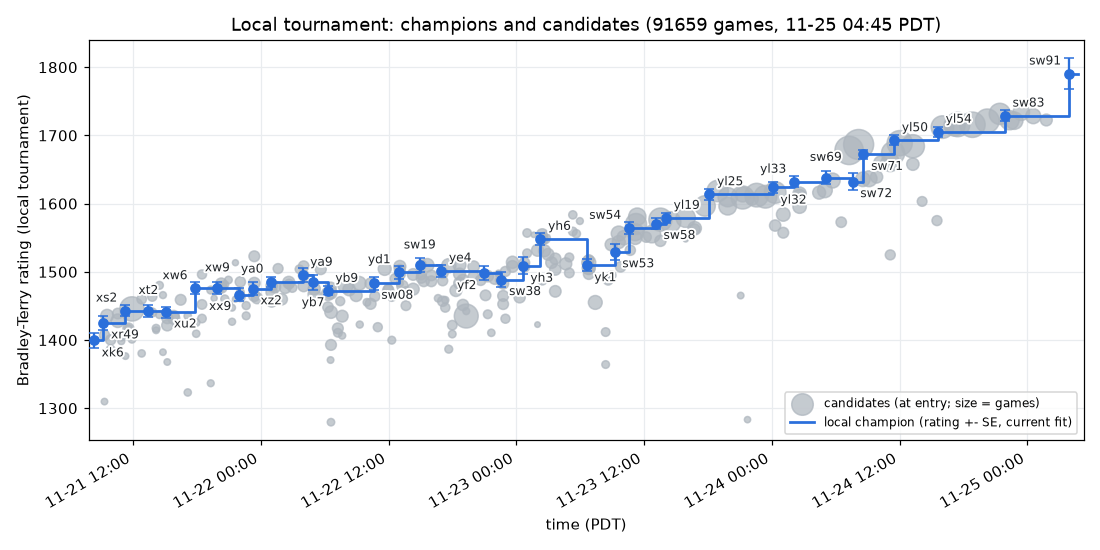
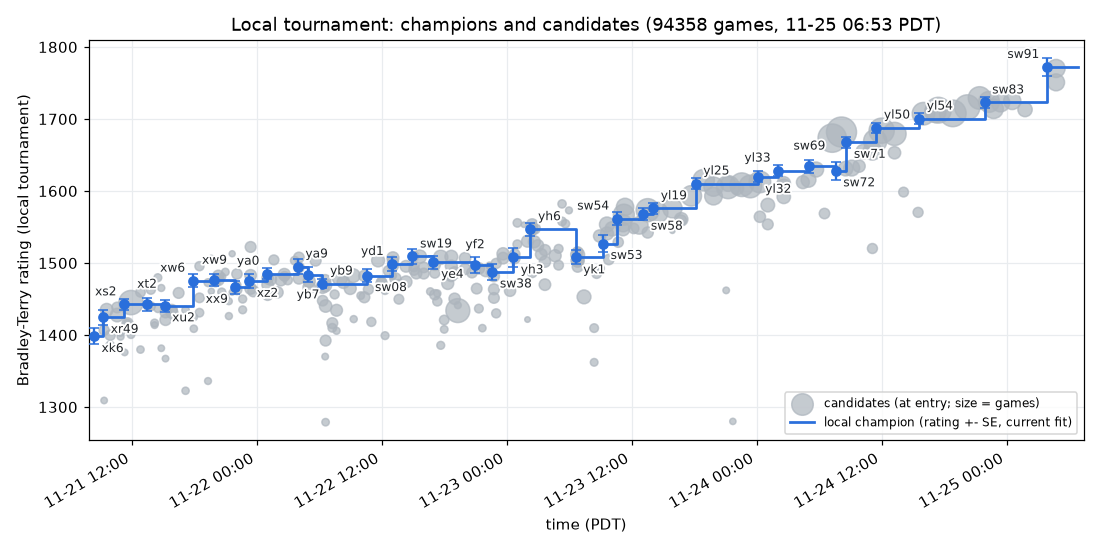
progress: local-elo chart 11-25 06:54 PDT (charts-refresh's 300 s timeout hit under load; redrawn by hand)
Claude-Session: https://claude.ai/code/session_01SzziPV5YmmvGU24CuZFoPc

diff --git a/progress/local-elo.md b/progress/local-elo.md
@@ -1,44 +1,44 @@
 # Local tournament Elo
 
-Bradley-Terry ratings of our own bots in the local tournament (`tools/tourney.py`), all 91659 games in one fit as of 2026-11-25 04:45 PDT, so every point is on the same scale; earlier champions are shown at their current rating. Regenerate with `tools/tourney.py chart`.
+Bradley-Terry ratings of our own bots in the local tournament (`tools/tourney.py`), all 94358 games in one fit as of 2026-11-25 06:53 PDT, so every point is on the same scale; earlier champions are shown at their current rating. Regenerate with `tools/tourney.py chart`.
 
 ![local elo](local-elo.png)
 
 | Champion from (PDT) | Bot | Change on base | Submission | Rating +- SE | Games |
 |---|---|---|---:|---:|---:|
-| 2026-11-21 08:20 | xk6 | starting champion (tournament began) |  | 1400 +- 11 | 1082 |
-| 2026-11-21 09:13 | xr49 | MAX_BABIES 14 on xk6 | #432 | 1425 +- 10 | 1209 |
+| 2026-11-21 08:20 | xk6 | starting champion (tournament began) |  | 1399 +- 11 | 1082 |
+| 2026-11-21 09:13 | xr49 | MAX_BABIES 14 on xk6 | #432 | 1424 +- 10 | 1209 |
 | 2026-11-21 11:12 | xs2 | KING_THREAT_D2 26 on xr49 | #433 | 1443 +- 8 | 1848 |
-| 2026-11-21 13:27 | xt2 | MAX_BABIES 15 on xs2 | #434 | 1443 +- 9 | 1689 |
-| 2026-11-21 15:07 | xu2 | KING_THREAT_D2 30 on xt2 | #435 | 1441 +- 8 | 2084 |
-| 2026-11-21 17:50 | xw6 | THROW_HOLD 10 on xu2 | #436 | 1476 +- 9 | 1747 |
+| 2026-11-21 13:27 | xt2 | MAX_BABIES 15 on xs2 | #434 | 1442 +- 9 | 1689 |
+| 2026-11-21 15:07 | xu2 | KING_THREAT_D2 30 on xt2 | #435 | 1440 +- 8 | 2084 |
+| 2026-11-21 17:50 | xw6 | THROW_HOLD 10 on xu2 | #436 | 1475 +- 9 | 1747 |
 | 2026-11-21 19:55 | xw9 | MAX_BABIES 16 on xw6 | #437 | 1476 +- 8 | 1914 |
-| 2026-11-21 21:55 | xx9 | GRAB_THREAT 15 on xw9 | #438 | 1467 +- 9 | 1666 |
-| 2026-11-21 23:15 | xz2 | LOW_FLOOR 200 on xx9 | #439 | 1475 +- 10 | 1373 |
-| 2026-11-22 00:55 | ya0 | KING_RESERVE 400 on xz2 | #440 | 1486 +- 8 | 2129 |
-| 2026-11-22 03:55 | ya9 | GATHER_CAT_DIST 32 on ya0 | #441 | 1496 +- 10 | 1176 |
+| 2026-11-21 21:55 | xx9 | GRAB_THREAT 15 on xw9 | #438 | 1466 +- 9 | 1666 |
+| 2026-11-21 23:15 | xz2 | LOW_FLOOR 200 on xx9 | #439 | 1474 +- 10 | 1373 |
+| 2026-11-22 00:55 | ya0 | KING_RESERVE 400 on xz2 | #440 | 1485 +- 8 | 2129 |
+| 2026-11-22 03:55 | ya9 | GATHER_CAT_DIST 32 on ya0 | #441 | 1495 +- 10 | 1176 |
 | 2026-11-22 04:55 | yb7 | CAT_DEFEND_R2 64 on ya9 | #442 | 1484 +- 11 | 1175 |
-| 2026-11-22 06:17 | yb9 | throw dodge: dodge any carrying enemy rat on yb7 | #443 | 1472 +- 7 | 2782 |
-| 2026-11-22 10:36 | sw08 | forward hold: FIGHT_POST 8 + WAR_GATHER 0 (big swing) on yb9 | #444 | 1483 +- 9 | 1424 |
+| 2026-11-22 06:17 | yb9 | throw dodge: dodge any carrying enemy rat on yb7 | #443 | 1471 +- 7 | 2782 |
+| 2026-11-22 10:36 | sw08 | forward hold: FIGHT_POST 8 + WAR_GATHER 0 (big swing) on yb9 | #444 | 1482 +- 9 | 1424 |
 | 2026-11-22 12:56 | yd1 | FIGHT_POST 12 on sw08 | #445 | 1499 +- 10 | 1252 |
-| 2026-11-22 14:56 | sw19 | FIGHT_POST 12 + cat endgame END_CAT 1600 END_CAT_COOP 1200 (big swing) on sw08 | #446 | 1510 +- 10 | 1188 |
-| 2026-11-22 16:57 | ye4 | END_CAT 1400 on sw19 | #447 | 1502 +- 9 | 1530 |
-| 2026-11-22 20:56 | yf2 | DEFEND_D2 225 on ye4 | #448 | 1498 +- 11 | 1035 |
-| 2026-11-22 22:36 | sw38 | RUSH_UNTIL 200 + END_CAT_COOP 1000 on yf2 | #449 | 1489 +- 11 | 986 |
-| 2026-11-23 00:36 | yh3 | INCOME_TRUST 50 on sw38 | #450 | 1509 +- 13 | 714 |
-| 2026-11-23 02:16 | yh6 | INCOME_TRUST 30 on sw38 | #451 | 1548 +- 9 | 1606 |
-| 2026-11-23 06:36 | yk1 | FIGHT_POST 10 on yh6 | #452 | 1510 +- 9 | 1378 |
-| 2026-11-23 09:14 | sw53 | RAID_SHARE 2 + FWD_TRAP (raiders + forward traps; sparring partner crowned) on yk1 | #453 | 1529 +- 11 | 944 |
-| 2026-11-23 10:34 | sw54 | MAX_BABIES_WAR 20 + RICH_BANK 600 + CORE_BABIES 20 + KING_RESERVE 300 (sw50's bank on bodies on the raider line; big swing) on sw53 | #454 | 1564 +- 9 | 1525 |
-| 2026-11-23 13:06 | sw58 | FINISH_K 8 + FINISH_FLOOR 100 (sw56's kill finishing ported to sw54; big swing) on sw54 | #470 | 1571 +- 8 | 1862 |
-| 2026-11-23 14:03 | yl19 | FINISH_FLOOR 100 alone (from 200; sw58's floor without its FINISH_K 8) on sw54 | #474 | 1579 +- 8 | 2055 |
-| 2026-11-23 18:08 | yl25 | RETREAT_HP 0 (from 40: wounded babies no longer walk back to our king; incremental) on yl19 | #475 | 1614 +- 8 | 2001 |
-| 2026-11-24 00:05 | yl32 | STANDOFF_EQ (the standoff holds only against a healthier enemy; an equal one is walked to and bitten first; incremental) on yl25 | #476 | 1624 +- 8 | 2035 |
-| 2026-11-24 02:03 | yl33 | PREY_WEAKEST (a hunter chases the weakest weaker enemy baby within dist2 20 - the lowest health then the nearest - instead of the nearest; incremental) on yl25 | #477 | 1632 +- 8 | 1882 |
-| 2026-11-24 05:04 | sw69 | LOW_FLOOR 50 (with fewer than LOW_BABIES 8 babies every spawn floor drops to 50 from 200 - usqualsbot's spend-down; on yl32 = yl25 + STANDOFF_EQ; swing) on yl32 | #478 | 1638 +- 9 | 1522 |
-| 2026-11-24 07:35 | sw72 | PREY_WEAKEST + PREY_TRAP (sw68's hunt rework on sw69: hunters chase the weakest weaker enemy baby; a rat a healthier enemy hunter watches traps it first - gate-free; swing) on sw69 | #479 | 1632 +- 13 | 768 |
-| 2026-11-24 08:36 | sw71 | CAT_YIELD_R2 20 + PREY_TRAP + LOW_FLOOR 50 (the brawl bundle on yl33 = yl25 + PREY_WEAKEST: at war a rat with an enemy baby within dist2 20 is not drawn to a cat at our king; a rat a healthier enemy hunter watches traps it first; spawns spend down to 50 under 8 babies; no STANDOFF_EQ; swing) on yl33 | #480 | 1672 +- 7 | 2710 |
-| 2026-11-24 11:29 | yl50 | LOW_FLOOR 20 (from 50; snapvar: under LOW_BABIES 8 babies the king spawns down to a 20 bank instead of 50; incremental) on sw71 | #481 | 1693 +- 7 | 2708 |
-| 2026-11-24 15:36 | yl54 | LOW_BABIES 12 (from 8; snapvar: the LOW_FLOOR 20 spend-down applies under 12 babies instead of 8; incremental) on yl50 | #482 | 1705 +- 7 | 2411 |
-| 2026-11-24 21:53 | sw83 | SENTRY 1 + SENTRY_R 1 + SENTRY_LOOK 3 (sw82 = yl54 + the mine sentry: at a mine no king of ours holds, with no enemy rat in view and nothing carried, a rat in the at-mine state walks to within Chebyshev 1 of the mine and holds, turning 90 degrees a round; sw83 adds the look: a rat on our half with a part load (10-29 raw), no pile in sight and no enemy in view turns 90 degrees a round for the 3 rounds after its last pickup before the trip home; swing) on sw82 | #483 | 1729 +- 9 | 1765 |
-| 2026-11-25 03:53 | sw91 | BAIL_BITE + BAIL_BITE_LEFT 1500 (sw91 = sw83 + the bite before a bail: a hostile turn that ends early for bytecodes (BC_BAIL before the actions, or GM_BAIL/BC_BAIL after the grab micro when it did not act) first bites the best enemy already in reach inside its cone, without turning or moving; swing) on sw83 | #484 | 1791 +- 23 | 245 |
+| 2026-11-22 14:56 | sw19 | FIGHT_POST 12 + cat endgame END_CAT 1600 END_CAT_COOP 1200 (big swing) on sw08 | #446 | 1509 +- 10 | 1188 |
+| 2026-11-22 16:57 | ye4 | END_CAT 1400 on sw19 | #447 | 1501 +- 9 | 1530 |
+| 2026-11-22 20:56 | yf2 | DEFEND_D2 225 on ye4 | #448 | 1497 +- 11 | 1035 |
+| 2026-11-22 22:36 | sw38 | RUSH_UNTIL 200 + END_CAT_COOP 1000 on yf2 | #449 | 1487 +- 11 | 986 |
+| 2026-11-23 00:36 | yh3 | INCOME_TRUST 50 on sw38 | #450 | 1508 +- 13 | 714 |
+| 2026-11-23 02:16 | yh6 | INCOME_TRUST 30 on sw38 | #451 | 1547 +- 9 | 1606 |
+| 2026-11-23 06:36 | yk1 | FIGHT_POST 10 on yh6 | #452 | 1508 +- 9 | 1378 |
+| 2026-11-23 09:14 | sw53 | RAID_SHARE 2 + FWD_TRAP (raiders + forward traps; sparring partner crowned) on yk1 | #453 | 1527 +- 11 | 944 |
+| 2026-11-23 10:34 | sw54 | MAX_BABIES_WAR 20 + RICH_BANK 600 + CORE_BABIES 20 + KING_RESERVE 300 (sw50's bank on bodies on the raider line; big swing) on sw53 | #454 | 1562 +- 9 | 1525 |
+| 2026-11-23 13:06 | sw58 | FINISH_K 8 + FINISH_FLOOR 100 (sw56's kill finishing ported to sw54; big swing) on sw54 | #470 | 1568 +- 8 | 1862 |
+| 2026-11-23 14:03 | yl19 | FINISH_FLOOR 100 alone (from 200; sw58's floor without its FINISH_K 8) on sw54 | #474 | 1576 +- 8 | 2055 |
+| 2026-11-23 18:08 | yl25 | RETREAT_HP 0 (from 40: wounded babies no longer walk back to our king; incremental) on yl19 | #475 | 1610 +- 8 | 2001 |
+| 2026-11-24 00:05 | yl32 | STANDOFF_EQ (the standoff holds only against a healthier enemy; an equal one is walked to and bitten first; incremental) on yl25 | #476 | 1620 +- 8 | 2035 |
+| 2026-11-24 02:03 | yl33 | PREY_WEAKEST (a hunter chases the weakest weaker enemy baby within dist2 20 - the lowest health then the nearest - instead of the nearest; incremental) on yl25 | #477 | 1628 +- 8 | 1882 |
+| 2026-11-24 05:04 | sw69 | LOW_FLOOR 50 (with fewer than LOW_BABIES 8 babies every spawn floor drops to 50 from 200 - usqualsbot's spend-down; on yl32 = yl25 + STANDOFF_EQ; swing) on yl32 | #478 | 1634 +- 9 | 1522 |
+| 2026-11-24 07:35 | sw72 | PREY_WEAKEST + PREY_TRAP (sw68's hunt rework on sw69: hunters chase the weakest weaker enemy baby; a rat a healthier enemy hunter watches traps it first - gate-free; swing) on sw69 | #479 | 1628 +- 13 | 768 |
+| 2026-11-24 08:36 | sw71 | CAT_YIELD_R2 20 + PREY_TRAP + LOW_FLOOR 50 (the brawl bundle on yl33 = yl25 + PREY_WEAKEST: at war a rat with an enemy baby within dist2 20 is not drawn to a cat at our king; a rat a healthier enemy hunter watches traps it first; spawns spend down to 50 under 8 babies; no STANDOFF_EQ; swing) on yl33 | #480 | 1668 +- 7 | 2710 |
+| 2026-11-24 11:29 | yl50 | LOW_FLOOR 20 (from 50; snapvar: under LOW_BABIES 8 babies the king spawns down to a 20 bank instead of 50; incremental) on sw71 | #481 | 1688 +- 7 | 2708 |
+| 2026-11-24 15:36 | yl54 | LOW_BABIES 12 (from 8; snapvar: the LOW_FLOOR 20 spend-down applies under 12 babies instead of 8; incremental) on yl50 | #482 | 1700 +- 7 | 2411 |
+| 2026-11-24 21:53 | sw83 | SENTRY 1 + SENTRY_R 1 + SENTRY_LOOK 3 (sw82 = yl54 + the mine sentry: at a mine no king of ours holds, with no enemy rat in view and nothing carried, a rat in the at-mine state walks to within Chebyshev 1 of the mine and holds, turning 90 degrees a round; sw83 adds the look: a rat on our half with a part load (10-29 raw), no pile in sight and no enemy in view turns 90 degrees a round for the 3 rounds after its last pickup before the trip home; swing) on sw82 | #483 | 1723 +- 8 | 2024 |
+| 2026-11-25 03:53 | sw91 | BAIL_BITE + BAIL_BITE_LEFT 1500 (sw91 = sw83 + the bite before a bail: a hostile turn that ends early for bytecodes (BC_BAIL before the actions, or GM_BAIL/BC_BAIL after the grab micro when it did not act) first bites the best enemy already in reach inside its cone, without turning or moving; swing) on sw83 | #484 | 1772 +- 12 | 1365 |
